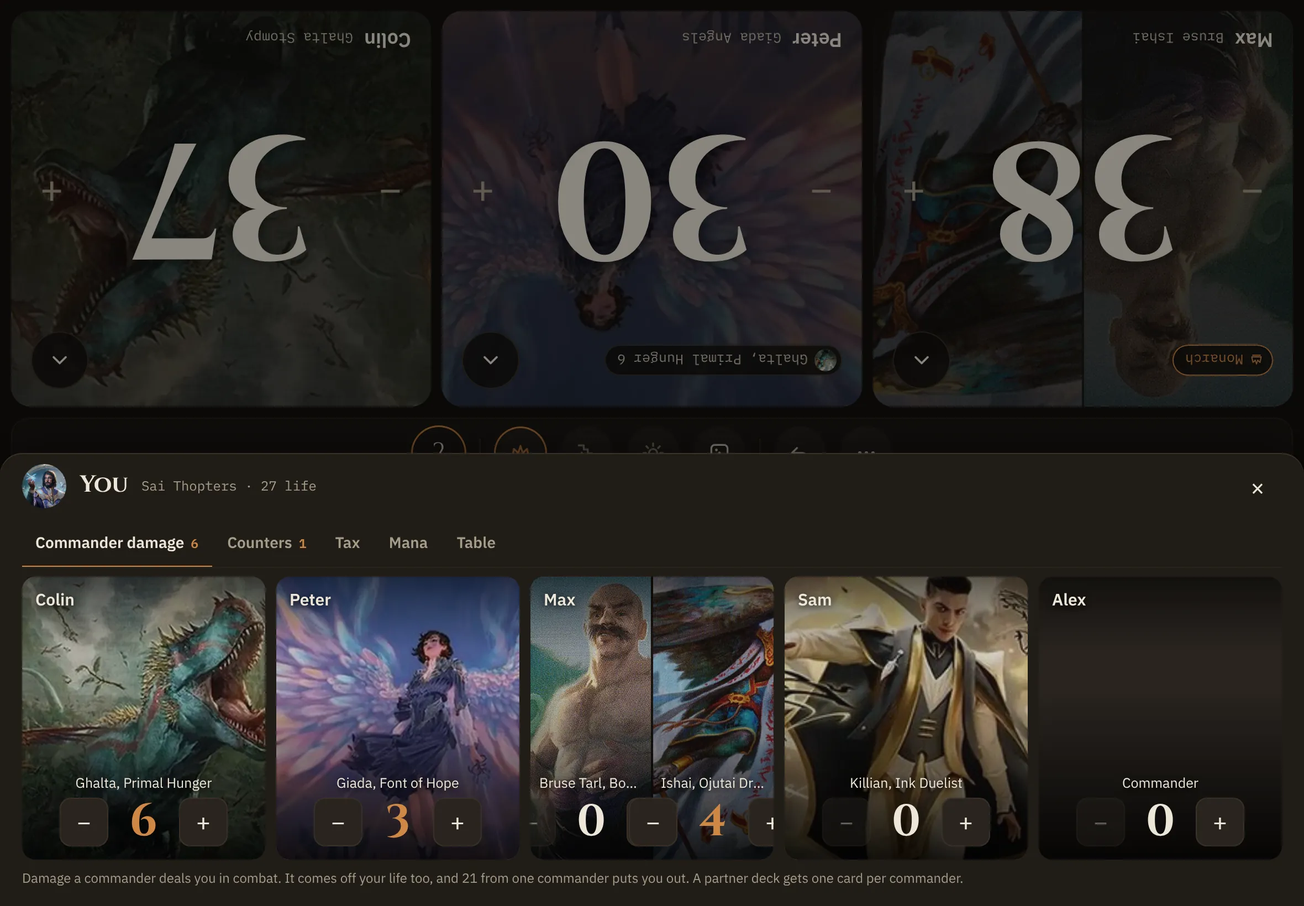
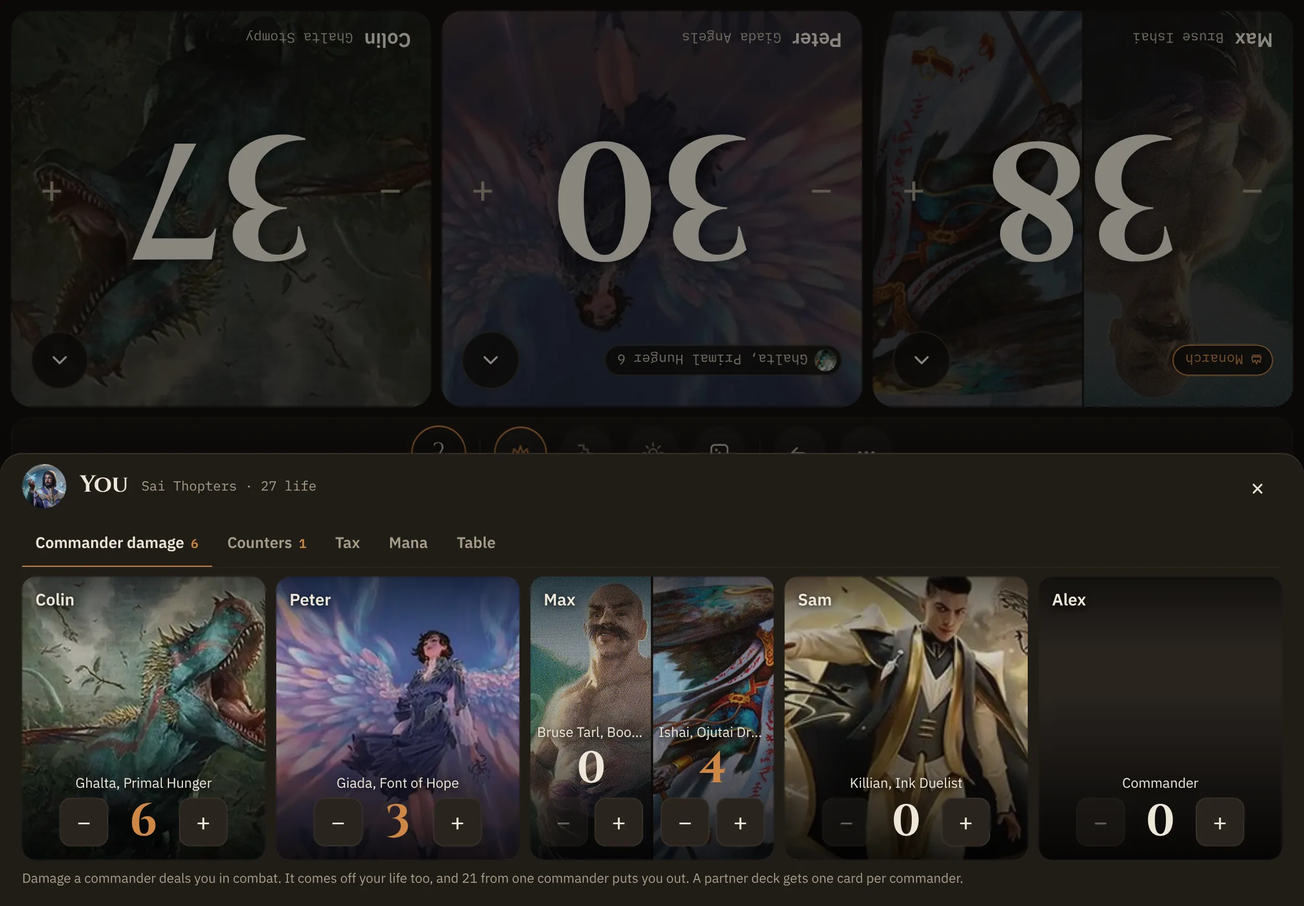
Tablet sheet R1.1: partner halves stack their steppers (readiness audit)
Each half of a partner damage card stacks its count over minus and plus, so both
fit at five across (D3) and four seats (D7, new). READINESS, STATES, README and
the proposal diff updated; the audit gets a design response.

Claude-Session: https://claude.ai/code/session_01WNCi9oXBiSv8sjAvEc9uAS

Changed region(s): [[0.4021, 0.8085, 0.5877, 0.9329]]

diff --git a/design/design_handoff_the99_life_tracker/addendum-tablet-sheet/Main.dc.html b/design/design_handoff_the99_life_tracker/addendum-tablet-sheet/Main.dc.html
@@ -26,7 +26,7 @@ body{margin:0}
 <p style="margin:0;font:600 15px 'IBM Plex Sans',sans-serif;color:#E6E8F0">D1 · Drawn</p>
 <p style="margin:0;font-size:13px;line-height:1.55;color:#959AAD">Half the table, from your edge, with the table dimmed behind it. Each opponent's art fills their card (255px tall). Table joins the tab row.</p>
 </figcaption>
-</figure></div></div><div style="display:grid;grid-template-columns:1fr 1fr;gap:16px"><div style="display:flex;flex-direction:column;gap:8px;padding:20px 24px;border:1px solid #262A35;border-radius:14px;background:#11131A"><p style="margin:0;font:600 17px 'IBM Plex Sans',sans-serif;color:#E6E8F0"><span style="font-family:'IBM Plex Mono',monospace;color:#E8A25C">1</span> · Half the table, from the opener's edge</p><div style="font-size:14px;line-height:1.6;color:#B1B6C7"><ul style="margin:0;padding-left:18px;display:flex;flex-direction:column;gap:4px"><li>On a tablet the sheet is a panel that rises from the edge of the seat that opened it and takes <b>half the table</b> along that seat's axis: 410px of 820 in landscape. In portrait the seats sit on the long edges, so it is 410 of 820 there too, and the content is the same size either way.</li><li>The height is fixed, not fitted to the tab, so switching tabs never moves the panel's edge. Every tab fits without scrolling (Counters, Tax, Mana, Table boards); only an opened History scrolls.</li><li>The rest of the table stays in view under a 42% black veil: lives, the turn ring and the strip are still readable. A tap on the table closes the sheet, as the dice and Menu popovers do; the ✕ and Esc still close it.</li></ul></div></div><div style="display:flex;flex-direction:column;gap:8px;padding:20px 24px;border:1px solid #262A35;border-radius:14px;background:#11131A"><p style="margin:0;font:600 17px 'IBM Plex Sans',sans-serif;color:#E6E8F0"><span style="font-family:'IBM Plex Mono',monospace;color:#E8A25C">2</span> · Commander damage: the art fills the card</p><div style="font-size:14px;line-height:1.6;color:#B1B6C7"><ul style="margin:0;padding-left:18px;display:flex;flex-direction:column;gap:4px"><li>On a tablet each opponent's card is their commander's art edge to edge, like their panel: the name at the top, the commander's name and the stepper over a dark foot. Steppers and counts are the shipped ones.</li><li>One card per opponent, all in one row (3 at four seats, 5 at six). A partner pair splits the art, and each half carries its own name and stepper under its own art (D3).</li><li>A seat with no deck gets the plain card surface (D3, Alex). The phone keeps its drawn F06 cards.</li></ul></div></div><div style="display:flex;flex-direction:column;gap:8px;padding:20px 24px;border:1px solid #262A35;border-radius:14px;background:#11131A"><p style="margin:0;font:600 17px 'IBM Plex Sans',sans-serif;color:#E6E8F0"><span style="font-family:'IBM Plex Mono',monospace;color:#E8A25C">3</span> · Table joins the tab row</p><div style="font-size:14px;line-height:1.6;color:#B1B6C7"><ul style="margin:0;padding-left:18px;display:flex;flex-direction:column;gap:4px"><li>The <span style="font-family:'IBM Plex Mono',monospace;color:#E6E8F0">ml-auto</span> that pushed Table to the far right goes: the five tabs sit together in the drawn order. No copy changes.</li><li>It applies on every device. The phone looks the same as before, because its five tabs already fill the row (Tabs board).</li></ul></div></div><div style="display:flex;flex-direction:column;gap:8px;padding:20px 24px;border:1px solid #262A35;border-radius:14px;background:#11131A"><p style="margin:0;font:600 17px 'IBM Plex Sans',sans-serif;color:#E6E8F0"><span style="font-family:'IBM Plex Mono',monospace;color:#E8A25C">4</span> · The coin toss</p><div style="font-size:14px;line-height:1.6;color:#B1B6C7"><ul style="margin:0;padding-left:18px;display:flex;flex-direction:column;gap:4px"><li>A coin with an edge, tossed off the table: it rises toward you, turns end over end five times, falls back, rattles flat and a ring lands under it (Coin board). Same 1.15 s to the result as today, so nothing else in the roll changes.</li><li>Reduced motion: no toss. The coin lies on its face and the result shows at once, as now.</li></ul></div></div></div><div style="display:flex;flex-direction:column;gap:10px;padding:20px 24px;border:1px solid #E8A25C;border-radius:14px"><span style="font:500 11px 'IBM Plex Mono',monospace;letter-spacing:.12em;text-transform:uppercase;color:#E8A25C">Phone and desktop</span><div style="font-size:14px;line-height:1.6;color:#B1B6C7"><ul style="margin:0;padding-left:18px;display:flex;flex-direction:column;gap:4px"><li><b>Desktop changes with the tablet</b>, for consistency: the tracker already draws a desktop window as a tablet (short side 600px or more), so the half sheet and the art cards apply there too (D6). No separate desktop layout.</li><li><b>The phone keeps its full-cover sheet</b> and F06 cards. It gets the same coin toss (shared code, 72px coin, Coin board) and the tab-row fix, which draws no differently there.</li></ul></div></div>
+</figure></div></div><div style="display:grid;grid-template-columns:1fr 1fr;gap:16px"><div style="display:flex;flex-direction:column;gap:8px;padding:20px 24px;border:1px solid #262A35;border-radius:14px;background:#11131A"><p style="margin:0;font:600 17px 'IBM Plex Sans',sans-serif;color:#E6E8F0"><span style="font-family:'IBM Plex Mono',monospace;color:#E8A25C">1</span> · Half the table, from the opener's edge</p><div style="font-size:14px;line-height:1.6;color:#B1B6C7"><ul style="margin:0;padding-left:18px;display:flex;flex-direction:column;gap:4px"><li>On a tablet the sheet is a panel that rises from the edge of the seat that opened it and takes <b>half the table</b> along that seat's axis: 410px of 820 in landscape. In portrait the seats sit on the long edges, so it is 410 of 820 there too, and the content is the same size either way.</li><li>The height is fixed, not fitted to the tab, so switching tabs never moves the panel's edge. Every tab fits without scrolling (Counters, Tax, Mana, Table boards); only an opened History scrolls.</li><li>The rest of the table stays in view under a 42% black veil: lives, the turn ring and the strip are still readable. A tap on the table closes the sheet, as the dice and Menu popovers do; the ✕ and Esc still close it.</li></ul></div></div><div style="display:flex;flex-direction:column;gap:8px;padding:20px 24px;border:1px solid #262A35;border-radius:14px;background:#11131A"><p style="margin:0;font:600 17px 'IBM Plex Sans',sans-serif;color:#E6E8F0"><span style="font-family:'IBM Plex Mono',monospace;color:#E8A25C">2</span> · Commander damage: the art fills the card</p><div style="font-size:14px;line-height:1.6;color:#B1B6C7"><ul style="margin:0;padding-left:18px;display:flex;flex-direction:column;gap:4px"><li>On a tablet each opponent's card is their commander's art edge to edge, like their panel: the name at the top, the commander's name and the stepper over a dark foot. Steppers and counts are the shipped ones.</li><li>One card per opponent, all in one row (3 at four seats, 5 at six). A partner pair splits the art, and each half carries its own name and stepper under its own art, the count stacked over − and + so it fits at five across (D3, D7).</li><li>A seat with no deck gets the plain card surface (D3, Alex). The phone keeps its drawn F06 cards.</li></ul></div></div><div style="display:flex;flex-direction:column;gap:8px;padding:20px 24px;border:1px solid #262A35;border-radius:14px;background:#11131A"><p style="margin:0;font:600 17px 'IBM Plex Sans',sans-serif;color:#E6E8F0"><span style="font-family:'IBM Plex Mono',monospace;color:#E8A25C">3</span> · Table joins the tab row</p><div style="font-size:14px;line-height:1.6;color:#B1B6C7"><ul style="margin:0;padding-left:18px;display:flex;flex-direction:column;gap:4px"><li>The <span style="font-family:'IBM Plex Mono',monospace;color:#E6E8F0">ml-auto</span> that pushed Table to the far right goes: the five tabs sit together in the drawn order. No copy changes.</li><li>It applies on every device. The phone looks the same as before, because its five tabs already fill the row (Tabs board).</li></ul></div></div><div style="display:flex;flex-direction:column;gap:8px;padding:20px 24px;border:1px solid #262A35;border-radius:14px;background:#11131A"><p style="margin:0;font:600 17px 'IBM Plex Sans',sans-serif;color:#E6E8F0"><span style="font-family:'IBM Plex Mono',monospace;color:#E8A25C">4</span> · The coin toss</p><div style="font-size:14px;line-height:1.6;color:#B1B6C7"><ul style="margin:0;padding-left:18px;display:flex;flex-direction:column;gap:4px"><li>A coin with an edge, tossed off the table: it rises toward you, turns end over end five times, falls back, rattles flat and a ring lands under it (Coin board). Same 1.15 s to the result as today, so nothing else in the roll changes.</li><li>Reduced motion: no toss. The coin lies on its face and the result shows at once, as now.</li></ul></div></div></div><div style="display:flex;flex-direction:column;gap:10px;padding:20px 24px;border:1px solid #E8A25C;border-radius:14px"><span style="font:500 11px 'IBM Plex Mono',monospace;letter-spacing:.12em;text-transform:uppercase;color:#E8A25C">Phone and desktop</span><div style="font-size:14px;line-height:1.6;color:#B1B6C7"><ul style="margin:0;padding-left:18px;display:flex;flex-direction:column;gap:4px"><li><b>Desktop changes with the tablet</b>, for consistency: the tracker already draws a desktop window as a tablet (short side 600px or more), so the half sheet and the art cards apply there too (D6). No separate desktop layout.</li><li><b>The phone keeps its full-cover sheet</b> and F06 cards. It gets the same coin toss (shared code, 72px coin, Coin board) and the tab-row fix, which draws no differently there.</li></ul></div></div>
 </div>
 </x-dc>
 <script type="text/x-dc" data-dc-script data-props='{"$preview":{"width":1600,"height":1490}}'>

diff --git a/design/design_handoff_the99_life_tracker/addendum-tablet-sheet/Damage.dc.html b/design/design_handoff_the99_life_tracker/addendum-tablet-sheet/Damage.dc.html
@@ -13,18 +13,24 @@
 body{margin:0}
 </style>
 </helmet>
-<div style="width:1600px;min-height:2100px;box-sizing:border-box;padding:48px 56px 64px;background:#0A0B0F;font-family:'IBM Plex Sans',sans-serif;color:#E6E8F0;display:flex;flex-direction:column;gap:28px">
+<div style="width:1600px;min-height:2720px;box-sizing:border-box;padding:48px 56px 64px;background:#0A0B0F;font-family:'IBM Plex Sans',sans-serif;color:#E6E8F0;display:flex;flex-direction:column;gap:28px">
 <div style="display:flex;flex-direction:column;gap:10px"><h2 style="margin:0;font:700 30px 'Chakra Petch',sans-serif;color:#E6E8F0">Commander damage across seat counts</h2><p style="margin:0;font-size:15px;line-height:1.6;color:#B1B6C7;max-width:1240px">One row of cards at every count, the art filling each. Partners split their card; a seat with no deck gets the plain surface.</p></div><div style="display:flex;flex-direction:column;gap:14px"><span style="font:500 11px 'IBM Plex Mono',monospace;letter-spacing:.12em;text-transform:uppercase;color:#E8A25C">Six seats and two</span><div style="display:flex;gap:36px;align-items:flex-start;flex-wrap:wrap"><figure style="margin:0;display:flex;flex-direction:column;gap:12px;width:700px;flex:none">
 <img src="art/ts-D3-six.webp" alt="D3 · Six seats, a partner and a seat with no deck" style="width:700px;height:486px;display:block;border-radius:14px;border:1px solid #262A35">
 <figcaption style="display:flex;flex-direction:column;gap:6px">
 <p style="margin:0;font:600 15px 'IBM Plex Sans',sans-serif;color:#E6E8F0">D3 · Six seats, a partner and a seat with no deck</p>
-<p style="margin:0;font-size:13px;line-height:1.55;color:#959AAD">Max plays Bruse Tarl and Ishai: split art, a stepper under each half, 4 from Ishai. Alex has no deck: the plain card and the shipped Commander fallback.</p>
+<p style="margin:0;font-size:13px;line-height:1.55;color:#959AAD">Max plays Bruse Tarl and Ishai: split art, and each half stacks its count over − and + (the Mana tab's stacked stepper), so both fit at five across (about 104px a half). 4 from Ishai. Alex has no deck: the plain card and the shipped Commander fallback.</p>
 </figcaption>
 </figure><figure style="margin:0;display:flex;flex-direction:column;gap:12px;width:700px;flex:none">
 <img src="art/ts-D4-two.webp" alt="D4 · Two seats (Face to face)" style="width:700px;height:486px;display:block;border-radius:14px;border:1px solid #262A35">
 <figcaption style="display:flex;flex-direction:column;gap:6px">
 <p style="margin:0;font:600 15px 'IBM Plex Sans',sans-serif;color:#E6E8F0">D4 · Two seats (Face to face)</p>
 <p style="margin:0;font-size:13px;line-height:1.55;color:#959AAD">One opponent: the card spans the sheet.</p>
+</figcaption>
+</figure></div></div><div style="display:flex;flex-direction:column;gap:14px"><span style="font:500 11px 'IBM Plex Mono',monospace;letter-spacing:.12em;text-transform:uppercase;color:#E8A25C">A partner at four seats</span><div style="display:flex;gap:36px;align-items:flex-start;flex-wrap:wrap"><figure style="margin:0;display:flex;flex-direction:column;gap:12px;width:700px;flex:none">
+<img src="art/ts-D7-four-partner.webp" alt="D7 · Four seats, Max on partners" style="width:700px;height:486px;display:block;border-radius:14px;border:1px solid #262A35">
+<figcaption style="display:flex;flex-direction:column;gap:6px">
+<p style="margin:0;font:600 15px 'IBM Plex Sans',sans-serif;color:#E6E8F0">D7 · Four seats, Max on partners</p>
+<p style="margin:0;font-size:13px;line-height:1.55;color:#959AAD">Three across: the partner halves stack the same way, so a partner card reads the same at every count.</p>
 </figcaption>
 </figure></div></div><div style="display:flex;flex-direction:column;gap:14px"><span style="font:500 11px 'IBM Plex Mono',monospace;letter-spacing:.12em;text-transform:uppercase;color:#E8A25C">A seat at the short end</span><div style="display:flex;gap:36px;align-items:flex-start;flex-wrap:wrap"><figure style="margin:0;display:flex;flex-direction:column;gap:12px;width:700px;flex:none">
 <img src="art/ts-E1-end.webp" alt="E1 · Five seats, One at the end: Max's sheet" style="width:700px;height:486px;display:block;border-radius:14px;border:1px solid #262A35">
@@ -41,7 +47,7 @@ body{margin:0}
 </figure></div></div>
 </div>
 </x-dc>
-<script type="text/x-dc" data-dc-script data-props='{"$preview":{"width":1600,"height":2100}}'>
+<script type="text/x-dc" data-dc-script data-props='{"$preview":{"width":1600,"height":2720}}'>
 class Component extends DCLogic {
 renderVals() { return {}; }
 }

diff --git a/design/design_handoff_the99_life_tracker/addendum-tablet-sheet/scratch-gen/gen.py b/design/design_handoff_the99_life_tracker/addendum-tablet-sheet/scratch-gen/gen.py
@@ -78,7 +78,7 @@ boards["Main.dc.html"] = (1600, 1490, "Main · the sheet on a tablet", page("Tab
  ]))
  + call("2", "Commander damage: the art fills the card", ul([
    "On a tablet each opponent's card is their commander's art edge to edge, like their panel: the name at the top, the commander's name and the stepper over a dark foot. Steppers and counts are the shipped ones.",
-   "One card per opponent, all in one row (3 at four seats, 5 at six). A partner pair splits the art, and each half carries its own name and stepper under its own art (D3).",
+   "One card per opponent, all in one row (3 at four seats, 5 at six). A partner pair splits the art, and each half carries its own name and stepper under its own art, the count stacked over − and + so it fits at five across (D3, D7).",
    "A seat with no deck gets the plain card surface (D3, Alex). The phone keeps its drawn F06 cards.",
  ]))
  + call("3", "Table joins the tab row", ul([
@@ -109,11 +109,13 @@ boards["Sheet.dc.html"] = (1600, 2470, "Sheet · tablet landscape", page("Tablet
    land("X3-table", "X3 · Table", "Table sits beside Mana in the row. Its three rows fit; History opens and scrolls inside the panel.")])
  + row("For reference", [land("X4-closed", "The table with no sheet open", "The F18 layout the sheet rises over.", 460)])))
 
-boards["Damage.dc.html"] = (1600, 2100, "Damage · counts and desktop", page("Tablet sheet: commander damage", 1600, 2100,
+boards["Damage.dc.html"] = (1600, 2720, "Damage · counts and desktop", page("Tablet sheet: commander damage", 1600, 2720,
  head("Commander damage across seat counts", "One row of cards at every count, the art filling each. Partners split their card; a seat with no deck gets the plain surface.")
  + row("Six seats and two", [
-   land("D3-six", "D3 · Six seats, a partner and a seat with no deck", "Max plays Bruse Tarl and Ishai: split art, a stepper under each half, 4 from Ishai. Alex has no deck: the plain card and the shipped Commander fallback."),
+   land("D3-six", "D3 · Six seats, a partner and a seat with no deck", "Max plays Bruse Tarl and Ishai: split art, and each half stacks its count over − and + (the Mana tab's stacked stepper), so both fit at five across (about 104px a half). 4 from Ishai. Alex has no deck: the plain card and the shipped Commander fallback."),
    land("D4-two", "D4 · Two seats (Face to face)", "One opponent: the card spans the sheet.")])
+ + row("A partner at four seats", [
+   land("D7-four-partner", "D7 · Four seats, Max on partners", "Three across: the partner halves stack the same way, so a partner card reads the same at every count.")])
  + row("A seat at the short end", [
    land("E1-end", "E1 · Five seats, One at the end: Max's sheet", "Max sits at the right end (rot −90). His sheet rises from that edge, 590 deep (half of 1180) and 820 long, so the four cards stack along it. The narrowest damage row of any layout.")])
  + row("Desktop (drawn as a tablet, as shipped)", [

diff --git a/design/design_handoff_the99_life_tracker/addendum-tablet-sheet/scratch-gen/patch.py b/design/design_handoff_the99_life_tracker/addendum-tablet-sheet/scratch-gen/patch.py
@@ -56,10 +56,12 @@ function DamageArt({ seat, foes, seats, onCommit }: { seat: SeatState; foes: rea
               <span aria-hidden className="absolute inset-0 bg-[linear-gradient(180deg,rgba(0,0,0,.55)_0%,rgba(0,0,0,0)_26%,rgba(0,0,0,0)_40%,rgba(0,0,0,.86)_100%)]" />
               <b className="relative px-3 pt-2.5 text-[15px] font-semibold [text-shadow:0_1px_6px_rgba(0,0,0,.9)]">{p.you ? copy.history.you : <PersonName n={p.name} />}</b>
               <div className="relative mt-auto flex">
+                {/* A partner half can be ~100px wide (five across), too narrow for the 140px row stepper: each half stacks
+                    its count over − and + (the Mana tab's stacked stepper), its own container keeping it stacked. */}
                 {taken.map((n, cmdr) => (
-                  <div key={cmdr} className="flex min-w-0 flex-1 flex-col items-center gap-1 px-2 pb-3">
+                  <div key={cmdr} className={"flex min-w-0 flex-1 flex-col items-center gap-1 px-1.5 pb-3" + (taken.length > 1 ? " @container" : "")}>
                     <span className="max-w-full truncate text-[12.5px] text-[color:var(--fg)] [text-shadow:0_1px_6px_rgba(0,0,0,.9)]">{cmdrName(p, cmdr)}</span>
-                    <Stepper size="damageOne" count={n} tone={n > 0 ? "set" : undefined} what={cmdrName(p, cmdr)} onStep={(d) => onCommit({ t: "damage", seat: seat.seat, from: foe.seat, cmdr, delta: d })} />
+                    <Stepper size="damageOne" stacked={taken.length > 1} count={n} tone={n > 0 ? "set" : undefined} what={cmdrName(p, cmdr)} onStep={(d) => onCommit({ t: "damage", seat: seat.seat, from: foe.seat, cmdr, delta: d })} />
                   </div>
                 ))}
               </div>

diff --git a/design/design_handoff_the99_life_tracker/addendum-tablet-sheet/READINESS.md b/design/design_handoff_the99_life_tracker/addendum-tablet-sheet/READINESS.md
@@ -21,8 +21,11 @@ below (a test that pins the old coin class, the hint copy for partners, and End 
 
 ### 🎭 State coverage
 - ✅ All five tabs at tablet landscape (D1, C1, X1, X2, X3), a sheet opened from the far side (D2), portrait (D5, C2),
-  2 and 6 seats with a partner and a seat with no deck (D3, D4), a short-end seat (E1), desktop (D6), the coin's toss frames, shipped frames,
+  2, 4 and 6 seats with a partner and a seat with no deck (D3, D4, D7), a short-end seat (E1), desktop (D6), the coin's toss frames, shipped frames,
   phone, reduced motion and the landed state.
+- ✅ Partner card at five and four across (READINESS-audit, Orange): resolved in R1.1. Each half now stacks its count over
+  − and + (the shipped `stacked` stepper the Mana tab uses, 94 px wide), the half its own `@container` so it stays stacked;
+  both halves fit at about 104 px (D3) and 137 px (D7).
 - ✅ A sheet from a short-end seat (E1, tablet 5 One at the end): 590 deep, 820 long, four cards stacked along it, the narrowest damage row of any layout.
 - 🟡 Not drawn: End game's "How did it end?" inside the half sheet. The shipped grid (four across from 900 px) fits in
   the 285 px body at six seats (two rows of 64 px plus the back press).
@@ -37,7 +40,8 @@ below (a test that pins the old coin class, the hint copy for partners, and End 
 - ✅ Coin: `DiceRoll` takes `tablet` for the coin's size; new keyframes `coin-spin`, `coin-arc`, `coin-settle`,
   `coin-shadow`, `coin-land`, `sheet-up`, `sheet-veil` replace `coin-flip` and `dice-land` in `globals.css`.
   `.coin-face` stays (faces gain `translateZ` for the rim). `COIN_MS` stays 1150.
-- 🟡 `dice-roll.test.tsx:49` asserts the old `animate-[coin-flip_1.15s…]` class; update it with the build.
+- 🟡 `dice-roll.test.tsx:49` asserts the old `animate-[coin-flip_1.15s…]` class and line 50 `--ry` (now `--rx`); update both
+  with the build. `sheet.test.tsx` gains a tablet case (veil closes, half sheet, damage cards, a partner card's two steppers).
 - 🟡 The veil is a second Close button (`tabIndex={-1}`, `aria-label` = `copy.sheet.close`), the pattern the dice and
   Menu backdrops use; focus still lands on the ✕.
 - 🟡 `scratch-gen/` is reference only: it bundles the shipped `PlaySurface` with stubs for `next/navigation`,

diff --git a/design/design_handoff_the99_life_tracker/addendum-tablet-sheet/README.md b/design/design_handoff_the99_life_tracker/addendum-tablet-sheet/README.md
@@ -28,7 +28,8 @@ Sam on Killian and Alex with no deck.
    count. The commander's art fills the card edge to edge (255 px tall at four seats, against 56), under a top and foot
    scrim; the player's name top left; the commander's name and the shipped `damageOne` stepper over the foot. A count
    above 0 is in the accent (`tone="set"`, as Counters). A partner pair splits the art and **each half carries its own
-   name and stepper** under its own art. A seat with no deck draws the plain card surface. The phone keeps F06.
+   name and stepper** under its own art, the count stacked over − and + (the Mana tab's stacked stepper) so a half fits
+   at five across (R1.1, after the readiness audit). A seat with no deck draws the plain card surface. The phone keeps F06.
 3. **Table joins the tab row (every device).** The `ml-auto` on the Table tab goes; the five tabs sit together in the
    drawn order. Nothing changes on the phone's drawing, because its tabs already fill the row.
 4. **The coin toss (every device).** The coin gets a rim (7 stacked discs), a toss arc (rises toward you to 1.8× and up
@@ -66,7 +67,7 @@ drawn at rest. The dice frames on the Coin board are the shipped `@3d-dice/dice-
 |---|---|
 | Main | Before and after (landscape), the four calls, phone and desktop |
 | Sheet | Landscape, all five tabs at half height (D1, C1, X1, X2, X3), a sheet opened from the far side (D2), the table at rest |
-| Damage | Six seats with a partner and a seat with no deck (D3), two seats (D4), a seat at the short end (E1), desktop 1440×900 (D6) |
+| Damage | Six seats with a partner and a seat with no deck (D3), two seats (D4), a partner at four seats (D7), a seat at the short end (E1), desktop 1440×900 (D6) |
 | Portrait | 820×1180: now (B2), Commander damage (D5), Counters (C2) |
 | Tabs | The tab row before and after on the tablet; the phone before and after |
 | Coin | The toss animated (tablet, shipped, phone), 12 frames with times, shipped frames, the d20 beside it, timing table, reduced motion |

diff --git a/design/design_handoff_the99_life_tracker/addendum-tablet-sheet/READINESS-audit.md b/design/design_handoff_the99_life_tracker/addendum-tablet-sheet/READINESS-audit.md
@@ -36,3 +36,10 @@ None. Game state, engine, storage and the one result write are untouched.
 ## PR split
 
 Under ~250 lines, so one PR is allowed; cleaner as two independent PRs (no stack): (1) coin toss: dice-roll, its test, play-surface props, coin keyframes; (2) tablet sheet: sheet, its test, sheet keyframes, tab row fix. Tab row fix may ride in either.
+
+## Design response (R1.1, 2026-11-22)
+
+- Partner card: resolved. Each half stacks its count over − and + (the shipped `stacked` stepper, as Mana), 94 px wide,
+  inside its own `@container` so it stays stacked. Redrawn at five across (D3, ~104 px a half) and four seats (D7, new
+  board, ~137 px a half). `scratch-gen/proposal.diff` carries the change.
+- The `--ry` → `--rx` test line and the `sheet.test.tsx` tablet case are now in READINESS.md.

diff --git a/design/design_handoff_the99_life_tracker/addendum-tablet-sheet/STATES.md b/design/design_handoff_the99_life_tracker/addendum-tablet-sheet/STATES.md
@@ -27,7 +27,7 @@ Tablet = `device === "tablet"` (short side ≥ 600 px), which includes a desktop
 |---|---|---|
 | Opponent, one commander, no damage | Art fills the card; name top left; commander name and `0` stepper (− disabled) | D1 Max |
 | Opponent, damage taken | Count in the accent | D1 Colin, Peter |
-| Partner pair | Split art; a name and stepper under each half | D3 Max |
+| Partner pair | Split art; under each half its name and a stacked stepper (count over − and +), so it fits at 4 and 5 across | D3, D7 Max |
 | Seat with no deck | Plain card surface; shipped fallback name `Commander` | D3 Alex |
 | One opponent (2 seats) | One card across the sheet | D4 |
 | Five opponents (6 seats) | Five across | D3 |
